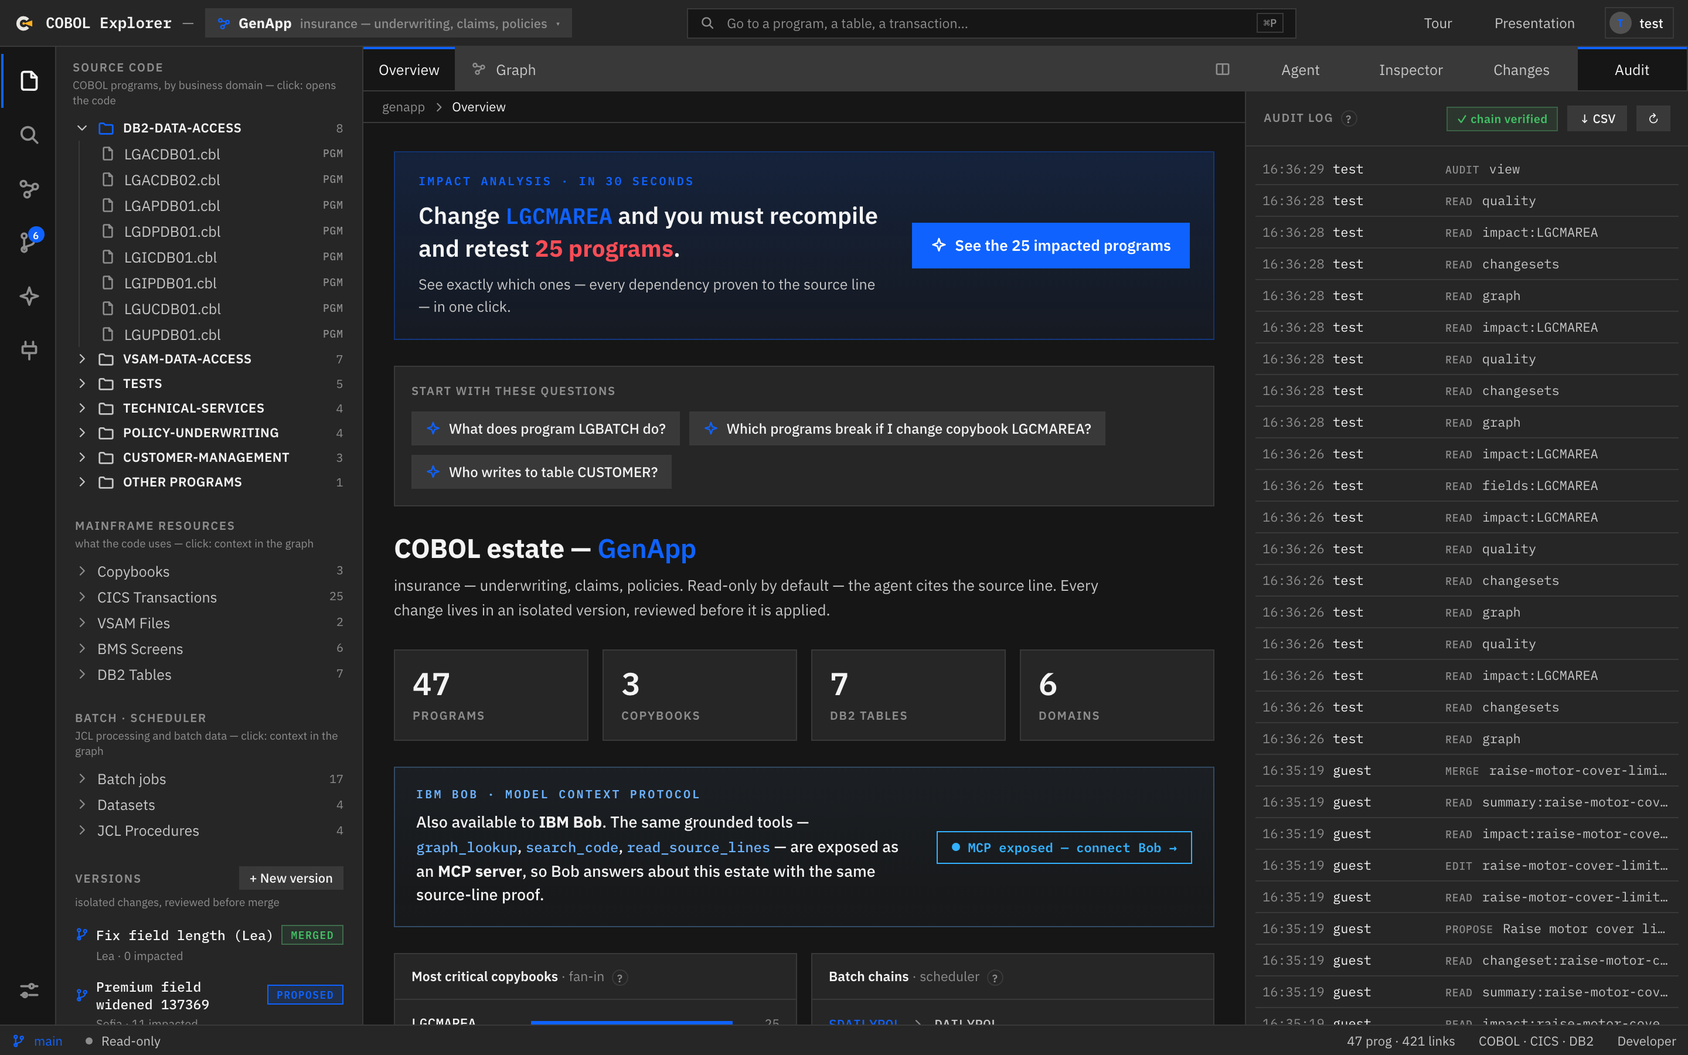
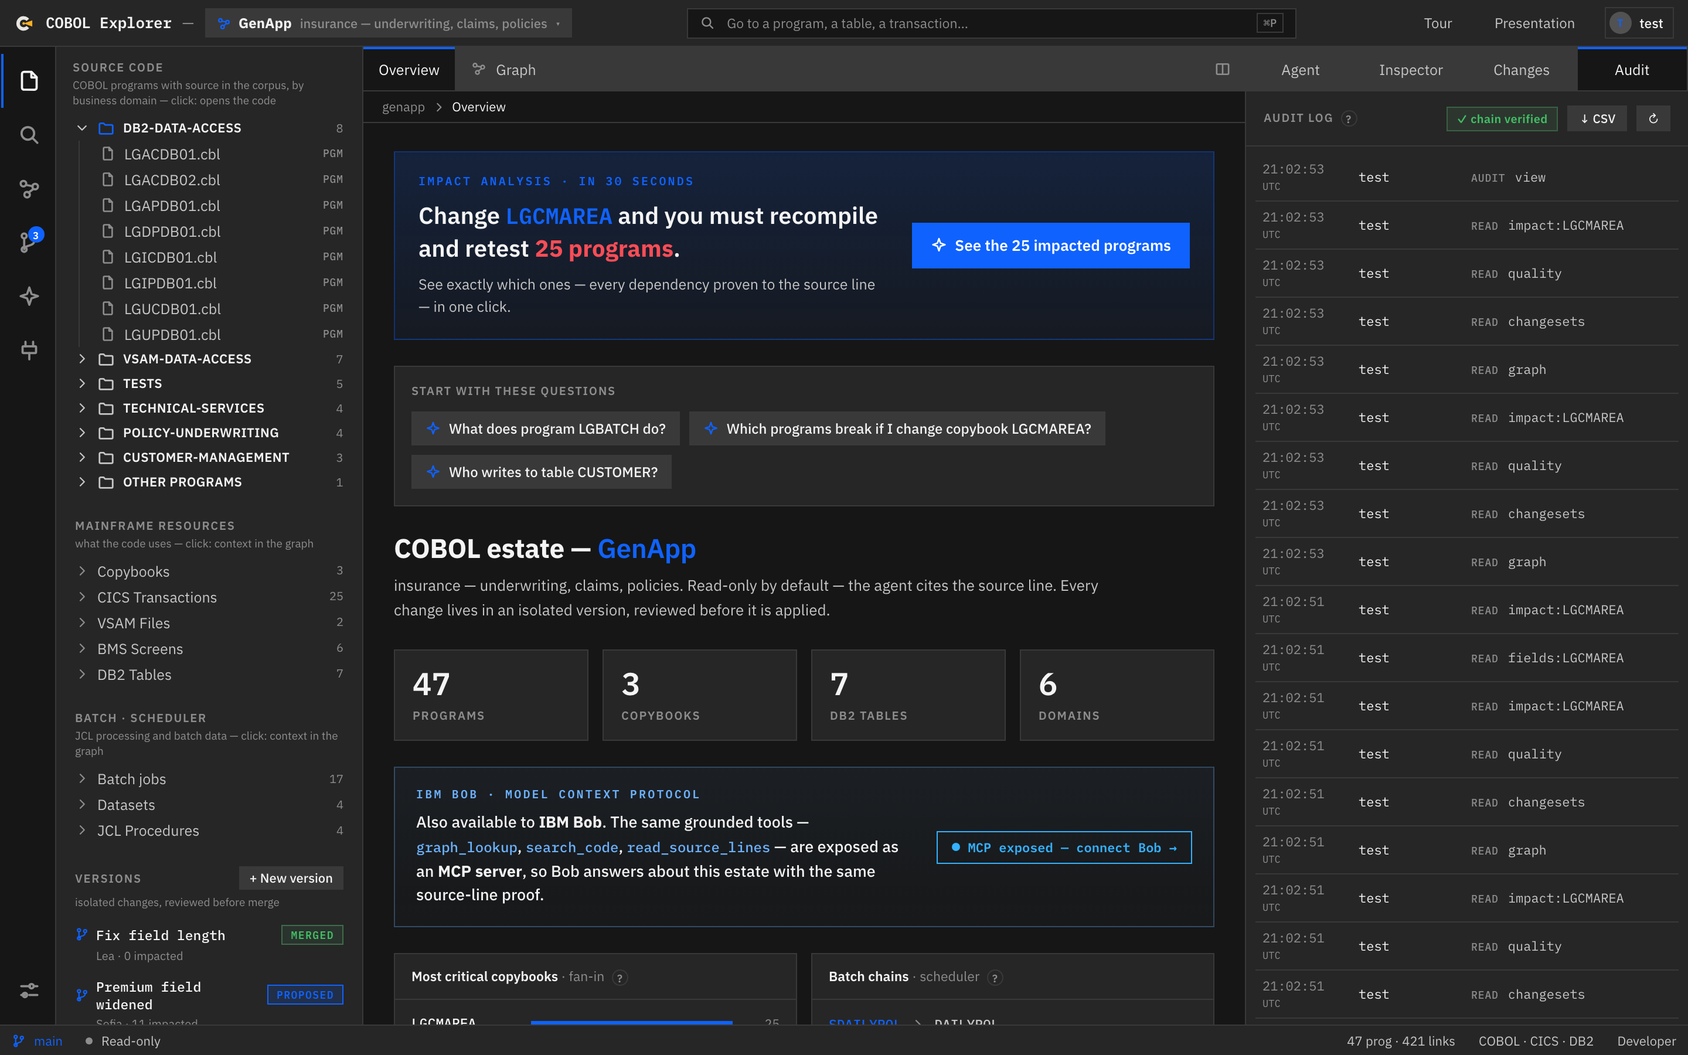
fix: everything four independent audits could find
A cold-eyes juror pass, a technical due-diligence pass, a full QA walkthrough
and a strategy review were run against the submission. Everything confirmed
real is fixed here.

The one that mattered most: the landing page of a product whose whole argument
is verified citations carried a fabricated one — search_code → MAJORER-PRIME
lgipol01.cbl:50, a symbol that exists nowhere in the corpus, pointing at a
COMMAREA declaration. It now shows the real thing: DB2-M-PREMIUM,
lgapdb01.cbl:100, checked against the file.

Second worst: clicking a citation into a file that was not already open landed
on line 1 with no flash — the flash effect depended on the nonce alone, fired
while the editor view was still null, and never re-fired. It now re-runs when
the editor mounts. The gesture the product is named for works from cold.

The audit story is tightened at both ends. The server's own test suite was
appending its merges to the developer's live audit.log.jsonl — and those junk
entries had been photographed onto the public landing page; a session-scoped
conftest now points every test at a temp file (proved: the suite runs, the
live log is byte-identical). The chain key's demo default is now documented,
commented honestly in audit.py, and warned about at startup when real auth is
on. Timestamps in the panel say UTC and carry the date in the tooltip — an
evidence panel two silent hours off the reader's wall clock read as wrong.
[…]

diff --git a/web/src/components/Landing.tsx b/web/src/components/Landing.tsx
@@ -99,7 +99,7 @@ const MCP_ADDS: ReactNode[] = [
 const GOVERNANCE = [
   { tag: "Verified", c: "var(--verified)", t: "Anti-hallucination guardrail", d: "After every answer the server re-verifies each citation against the corpus: does the file exist, is the line in range. An ungrounded answer never passes silently — the panel labels it." },
   { tag: "Audited", c: "var(--graph)", t: "Tamper-evident audit log", d: "Every action, and every refusal, is appended to an HMAC-SHA256 chain. Altering one line breaks the chain, and the panel says so." },
-  { tag: "Scoped", c: "var(--reason)", t: "Role-based access control", d: "Sign-in issues a signed token carrying your role, so a forged header promotes nobody. Proposing, merging and auditing are three different rights. Passwords are never stored — PBKDF2-HMAC-SHA256, 120,000 iterations, per-account salt." },
+  { tag: "Scoped", c: "var(--reason)", t: "Role-based access control", d: "Sign-in issues a signed token carrying your role, so a forged header promotes nobody. Proposing, merging and auditing are three different rights." },
   { tag: "Measured", c: "var(--danger)", t: "Quality, not assumption", d: "A golden question set scored on entity recall, citation grounding and impact coverage, run in CI — so a quality regression breaks the build rather than reaching a demo." },
 ];
 
@@ -109,14 +109,6 @@ const STACK = [
   { l: "Orchestration", t: "BeeAI", d: "The ReAct loop: the agent picks its own tools and logs why, which is what makes the reasoning auditable." },
   { l: "Inference", t: "IBM watsonx.ai", d: "granite-4-h-small in Dallas, the hosted backend serving this deployment. 6.5 s per answer against 30-40 s on CPU." },
 ];
-
-const VERBS = [
-  { v: "Plan", t: "Exhaustive impact", d: "A deterministic traversal, not a plausible sample." },
-  { v: "Coordinate", t: "Team versioning", d: "Isolated branches, affected owners, review, merge gate." },
-  { v: "Decide", t: "Grounded answers", d: "Every fact cited to file:line and re-verified at the source." },
-  { v: "Execute", t: "Governed merge", d: "Propose, measure, approve, merge — on a chained audit trail." },
-];
-
 
 const FIT = [
   { t: "Plan", d: "Exhaustive impact: “this copybook breaks these 11 programs and these 2 batch chains” — a deterministic traversal, never a plausible sample." },
@@ -285,8 +277,8 @@ export default function Landing({
             <p>Browse, ask, analyse without ever altering the estate. Read-only by construction, not by policy.</p>
             <div className="ce-code">
               <span style={{ color: "var(--reason)" }}>think</span> “where is the premium computed?”<br />
-              <span style={{ color: "var(--vector)" }}>search_code</span> → MAJORER-PRIME{" "}
-              <span style={{ color: "var(--interactive)" }}>lgipol01.cbl:50</span><br />
+              <span style={{ color: "var(--vector)" }}>search_code</span> → DB2-M-PREMIUM{" "}
+              <span style={{ color: "var(--interactive)" }}>lgapdb01.cbl:100</span><br />
               <span style={{ color: "var(--verified)" }}>✓ 3 sources verified</span>
             </div>
           </div>
@@ -551,15 +543,6 @@ export default function Landing({
             </div>
           ))}
         </div>
-        <div className="ce-grid4 ce-stack" style={{ marginTop: 34 }}>
-          {VERBS.map((v) => (
-            <div key={v.v}>
-              <div className="ce-stack-l is-accent">{v.v}</div>
-              <div className="ce-stack-t">{v.t}</div>
-              <p className="ce-stack-d">{v.d}</p>
-            </div>
-          ))}
-        </div>
       </Section>
 
       <Section id="fit-section"
@@ -599,7 +582,7 @@ export default function Landing({
 
       <Section id="built-section"
         title="Built with IBM Bob — spec first, not vibes."
-        lead="The July lab teaches spec-driven development with Bob rather than vibe coding: describe the intent, let the agent plan, review the plan, then implement. Reusable skills kept that discipline on every unit of work.">
+        lead="The loop closes here: Bob helped build the tool that now extends Bob over MCP. The July lab teaches spec-driven development rather than vibe coding — describe the intent, let the agent plan, review the plan, then implement — and reusable skills kept that discipline on every unit of work.">
         <div className="ce-grid3 ce-verbs">
           {BUILT.map((f) => (
             <div className="ce-verb" key={f.t}>
@@ -609,13 +592,13 @@ export default function Landing({
           ))}
         </div>
         <p className="ce-fine">
-          The loop closes: Bob helped build the tool that now extends Bob. The same three tools are exposed back to it
-          over MCP, so a developer inside Bob can ask what breaks and get an exhaustive, grounded answer.
+          The same three tools this page describes are exposed back to Bob, so a developer inside it can ask what
+          breaks and get an exhaustive, grounded answer instead of a plausible one.
         </p>
       </Section>
 
       <Section id="access-section" alt
-        title="Days of manual hunting, down to 6.5 seconds — with line-level proof."
+        title="Days of manual hunting, down to 30 seconds — with line-level proof."
         lead="Your role travels inside a signed token: it decides what you may read, propose and merge, and every action is written to the tamper-evident audit trail under your name.">
         <div className="ce-access-actions">
           {inside ? (

diff --git a/web/src/components/ChangesPanel.tsx b/web/src/components/ChangesPanel.tsx
@@ -35,6 +35,7 @@ export default function ChangesPanel({ version, author, onReload, onOpenDiff, on
   // A merged version is done: no sync warnings, no further actions.
   const sync = merged ? null : version.sync;
   const behind = sync ? !sync.up_to_date : false;
+  const empty = !version.edits?.length;
 
   const run = (p: Promise<any>, after?: () => void) => {
     setBusy(true); setError(null);
@@ -173,7 +174,7 @@ export default function ChangesPanel({ version, author, onReload, onOpenDiff, on
           )}
         </div>
       )}
-      {confirmMerge && (
+      {confirmMerge && !empty && (
         <div className="card" style={{ padding: "10px 12px", borderColor: "var(--interactive)", background: "rgba(15, 98, 254, .12)", font: "400 11px/1.5 var(--s)", color: "var(--text-secondary)" }} data-testid="merge-gate">
           <span style={{ color: "var(--interactive)" }}>⚠ Merge-gate</span> — this merge applies the change to the estate and touches <b style={{ color: "var(--text-primary)" }}>{nProg} program{nProg > 1 ? "s" : ""}</b>. Confirm?
         </div>
@@ -184,11 +185,11 @@ export default function ChangesPanel({ version, author, onReload, onOpenDiff, on
       <div style={{ display: merged ? "none" : "flex", gap: 8 }}>
         <button className="btn-pri" style={{ flex: 1, justifyContent: "center", font: "600 12px var(--s)", padding: 8 }} disabled={busy}
           onClick={() => run(csStatus(version.id, "proposed"))}>Propose</button>
-        <button className={confirmMerge ? "btn-pri" : "btn"} style={{ flex: 1, justifyContent: "center", border: confirmMerge ? "none" : undefined, opacity: behind ? 0.5 : 1 }}
-          data-testid="merge-btn" disabled={busy || behind}
-          title={behind ? "Your branch is behind main — import main first" : "Apply this version onto main (git merge)"}
+        <button className={confirmMerge && !empty ? "btn-pri" : "btn"} style={{ flex: 1, justifyContent: "center", border: confirmMerge && !empty ? "none" : undefined, opacity: behind || empty ? 0.5 : 1 }}
+          data-testid="merge-btn" disabled={busy || behind || empty}
+          title={behind ? "Your branch is behind main — import main first" : empty ? "Nothing to merge — this version has no changed file" : "Apply this version onto main (git merge)"}
           onClick={() => (confirmMerge ? run(csStatus(version.id, "merged"), () => setConfirmMerge(false)) : setConfirmMerge(true))}>
-          {behind ? "Merge (import main first)" : confirmMerge ? "Confirm merge" : "Merge"}
+          {behind ? "Merge (import main first)" : empty ? "Nothing to merge" : confirmMerge ? "Confirm merge" : "Merge"}
         </button>
       </div>
 

diff --git a/web/src/App.tsx b/web/src/App.tsx
@@ -123,6 +123,8 @@ export default function App() {
   const [switching, setSwitching] = useState(false);
   const [sessionExpired, setSessionExpired] = useState(false);
   const [tourAt, setTourAt] = useState<number | null>(null);
+  const tourBaseVersion = useRef<string | null>(null);
+  useEffect(() => { if (tourAt !== null) tourBaseVersion.current = activeVersionIdRef.current; }, [tourAt]);
   // The sidebar shows the estate, or how to point your own Bob at it.
   const [side, setSide] = useState<"explorer" | "bob">("explorer");
   // One client route. /presentation shows the same argument page the public sees,
@@ -601,7 +603,9 @@ export default function App() {
           </div>
         ) : (
           <div className="breadcrumb">
-            <span className="crumb">genapp</span><Icon name="chev" size={11} color="var(--text-helper)" />
+            {/* Hardcoded "genapp" survived the second estate: on CardDemo every
+                surface switched except this one word. */}
+            <span className="crumb">{activeSys}</span><Icon name="chev" size={11} color="var(--text-helper)" />
             <span style={{ color: "var(--text-primary)" }}>{t?.title}</span>
           </div>
         )}
@@ -793,6 +797,16 @@ export default function App() {
           selectExample: () => {
             const hit = graph?.nodes.find((n) => n.label === TOUR_EXAMPLE);
             if (hit) setSelectedId(hit.id);
+          },
+          // Hand the workshop back the way the tour found it. Its changes step
+          // auto-enters the first draft version (that is the panel's normal
+          // behaviour), so without this a first-time reader finished the tour
+          // INSIDE somebody's draft, status bar reading "Editing" — right after
+          // being told they never have to wonder where what they type lands.
+          finish: () => {
+            if (!tourBaseVersion.current && activeVersionIdRef.current) switchVersion(null);
+            setRightTab("inspector");
+            focusTab(OVERVIEW_TAB);
           },
         }}
       />

diff --git a/web/src/components/CodeView.tsx b/web/src/components/CodeView.tsx
@@ -3,7 +3,7 @@ import { cobol } from "@codemirror/legacy-modes/mode/cobol";
 import { StateEffect, StateField } from "@codemirror/state";
 import { Decoration, type DecorationSet, EditorView } from "@codemirror/view";
 import CodeMirror, { type ReactCodeMirrorRef } from "@uiw/react-codemirror";
-import { useEffect, useRef } from "react";
+import { useEffect, useRef, useState } from "react";
 
 const cobolExt = StreamLanguage.define(cobol);
 
@@ -39,6 +39,12 @@ export default function CodeView({
   highlight?: { line: number; nonce: number };
 }) {
   const ref = useRef<ReactCodeMirrorRef>(null);
+  // Flips once the editor exists. The flash effect used to depend on the nonce
+  // alone, so when a citation opened a file that was NOT already open, the
+  // effect fired while the view was still null, returned early, and never fired
+  // again — the one gesture the product is named for landed on line 1 with no
+  // flash. Re-running on `ready` covers the fresh-tab case.
+  const [ready, setReady] = useState(false);
 
   useEffect(() => {
     const view = ref.current?.view;
@@ -48,7 +54,7 @@ export default function CodeView({
     view.dispatch({ effects: [flashLine.of(ln), EditorView.scrollIntoView(at, { y: "center" })] });
     const t = setTimeout(() => view.dispatch({ effects: flashLine.of(null) }), 2000);
     return () => clearTimeout(t);
-  }, [highlight?.nonce]);
+  }, [highlight?.nonce, ready]);
 
   return (
     <CodeMirror
@@ -65,6 +71,7 @@ export default function CodeView({
         highlightActiveLine: editable,
         highlightActiveLineGutter: editable,
       }}
+      onCreateEditor={() => setReady(true)}
       height="100%"
       className="cm-theme"
     />

diff --git a/web/src/components/AuditPanel.tsx b/web/src/components/AuditPanel.tsx
@@ -49,7 +49,13 @@ export default function AuditPanel() {
       <div className="sb" style={{ flex: 1, overflow: "auto", padding: "6px 8px" }} data-testid="audit-list">
         {data?.entries?.slice().reverse().map((e, i) => (
           <div key={i} style={{ display: "flex", alignItems: "center", gap: 8, padding: "6px 6px", borderBottom: "1px solid var(--layer-02)", font: "400 11px var(--m)" }}>
-            <span style={{ color: "var(--text-helper)", flex: "none", width: 52 }}>{e.ts.slice(11, 19)}</span>
+            {/* The server records ISO-8601 UTC. Shown bare ("20:44:33") in an
+                evidence panel, two hours off the reader's wall clock, the
+                timestamp read as wrong — label the zone, carry the date in the
+                tooltip. */}
+            <span style={{ color: "var(--text-helper)", flex: "none", width: 74 }} title={e.ts}>
+              {e.ts.slice(11, 19)} <span style={{ fontSize: 8.5 }}>UTC</span>
+            </span>
             <span style={{ color: "var(--text-primary)", flex: "none", width: 88, overflow: "hidden", textOverflow: "ellipsis", whiteSpace: "nowrap" }} title={`${e.actor} · ${e.role}`}>{e.actor}</span>
             <span className="tag" style={{ flex: "none" }}>{e.action}</span>
             <span style={{ color: "var(--text-secondary)", flex: 1, overflow: "hidden", textOverflow: "ellipsis", whiteSpace: "nowrap" }} title={e.target}>{e.target}</span>

diff --git a/web/index.html b/web/index.html
@@ -7,6 +7,16 @@
     <link rel="icon" type="image/svg+xml" href="/favicon.svg" />
     <meta name="theme-color" content="#161616" />
     <meta name="description" content="Map a COBOL estate into a dependency graph and ask it questions in plain language — every answer cited to the exact source line." />
+    <!-- The link travels — a submission form, a Discord, a juror's notes. Without
+         these it unfurls as a bare URL; with them it carries the pitch and a
+         picture of the product. -->
+    <meta property="og:type" content="website" />
+    <meta property="og:site_name" content="COBOL Explorer" />
+    <meta property="og:title" content="COBOL Explorer — ask the estate, get the proof" />
+    <meta property="og:description" content="Grounded agentic RAG over a mainframe-native dependency graph. Every answer cited to the exact source line — and the same tools exposed to IBM Bob over MCP." />
+    <meta property="og:url" content="https://cobol-explorer.fr" />
+    <meta property="og:image" content="https://cobol-explorer.fr/shots/sc-apercu.png" />
+    <meta name="twitter:card" content="summary_large_image" />
     <!-- Fonts are self-hosted (see src/main.tsx): this deployment must render identically
          behind a corporate proxy with no internet, which is where its users actually work. -->
   </head>

diff --git a/docs/presentation.html b/docs/presentation.html
@@ -537,7 +537,7 @@
       <b>HMAC-SHA256</b> chain: altering one line breaks the chain. An Audit tab in the UI shows
       <span class="badge-ok">✓ chain intact</span>.</p></div>
     <div class="card"><h3>👥 Role-based access control</h3>
-      <p>Five roles: <b>dev · architect · risk · compliance · auditor</b>. Proposing ≠ merging ≠ auditing.
+      <p>Six roles — guest included; five can sign in: <b>dev · architect · risk · compliance · auditor</b>. Proposing ≠ merging ≠ auditing.
       Sign-in issues a <b>signed token</b> carrying the role, so a forged header promotes nobody; an
       <span class="mono">enforce</span> mode delegates identity to a corporate SSO proxy (OIDC/SAML) instead.</p></div>
     <div class="card"><h3>📊 Quality measured, not assumed</h3>
@@ -666,7 +666,7 @@
       <li><b>Real sign-in</b> (signed token) or <b>enforce</b> mode behind an SSO proxy</li>
       <li>Source access confined to the corpus (path-traversal proof) + strict CORS</li>
       <li>Copybook resolver: SYSLIB, COPY REPLACING, nested</li>
-      <li>151 backend tests · 49 Playwright e2e · multi-agent adversarial audits</li>
+      <li>151 backend tests · 49 Playwright e2e · a golden Q/A gate in CI</li>
     </ul></div>
   </div>
   <div class="foot"><span>COBOL Explorer</span><span>16 / 20</span></div>

diff --git a/web/src/components/Tour.tsx b/web/src/components/Tour.tsx
@@ -24,6 +24,8 @@ export interface TourHooks {
   openOverview: () => void;
   /** Select that entity, so the inspector is full rather than showing its placeholder. */
   selectExample: () => void;
+  /** Restore the pre-tour state: leave any version the tour entered, back to the overview. */
+  finish: () => void;
 }
 
 /** `before` runs, then the DOM settles, then the step is shown. */
@@ -169,7 +171,7 @@ export default function Tour({ run, hooks, onClose }: { run: boolean; hooks: Tou
       overlayColor: "#000",
       overlayOpacity: 0.72,
       allowClose: true,
-      onDestroyed: () => { localStorage.setItem(TOUR_SEEN, "1"); hooks.openSide("explorer"); onClose(); },
+      onDestroyed: () => { localStorage.setItem(TOUR_SEEN, "1"); hooks.openSide("explorer"); hooks.finish(); onClose(); },
       steps: steps.map<DriveStep>((s) => ({
         element: s.el,
         popover: { title: s.title, description: s.text, side: s.side ?? "bottom", align: "start" },

diff --git a/web/src/components/Navigator.tsx b/web/src/components/Navigator.tsx
@@ -52,7 +52,11 @@ export default function Navigator({
       {/* ── Source code, one folder per business domain ─────────────────── */}
       <div className="sidehead" style={{ flexDirection: "column", alignItems: "flex-start", gap: 2 }}>
         <span className="klabel">Source code</span>
-        <span className="sidehint">COBOL programs, by business domain — click: opens the code</span>
+        {/* "with source in the corpus" is doing real work: the graph also knows
+            programs that are only ever CALLed (18 of CardDemo's 62), so the
+            tree count and the estate statistic legitimately differ — unstated,
+            that difference read as a bug. */}
+        <span className="sidehint">COBOL programs with source in the corpus, by business domain — click: opens the code</span>
       </div>
 
       <div style={{ padding: "0 8px 10px" }}>

diff --git a/server/agent/agent.py b/server/agent/agent.py
@@ -221,7 +221,9 @@ def _deterministic_fallback(question: str, gt: GraphTools, trace: Trace, exc: Ex
 
     from agent.responder import answer_copybook_impact
 
-    note = f"\n\n_(deterministic answer — the LLM agent is unavailable: {type(exc).__name__})_"
+    import logging
+    logging.getLogger("uvicorn.error").info("agent fallback: %s", type(exc).__name__)
+    note = "\n\n> Deterministic answer — no language model is configured, so this was derived from the graph alone."
     # Allow underscores so table names like CUSTOMER_SECURE resolve as one token.
     for tok in re.findall(r"\b[A-Za-z][A-Za-z0-9_]{2,}\b", question):
         nid = gt.resolve(tok.upper())
@@ -236,4 +238,4 @@ def _deterministic_fallback(question: str, gt: GraphTools, trace: Trace, exc: Ex
             trace.record("graph_lookup", {"op": "summary", "node": tok.upper()},
                          _summ(prof), sources=[prof.get("node", nid)])
             return {"answer": _format_profile(prof) + note, "trace": trace}
-    return {"answer": f"[The LLM agent is unavailable ({type(exc).__name__}). Name a program, a copybook or a table for a structural analysis that needs no LLM.]", "trace": trace}
+    return {"answer": "No language model is configured, and this question needs one. Name a program, a copybook or a table and the graph alone can answer — impact, callers, profile — with citations.", "trace": trace}

diff --git a/server/security/audit.py b/server/security/audit.py
@@ -15,7 +15,19 @@ import json
 import os
 import threading
 
+# The chain key. It must survive restarts — old entries are verified against it —
+# so unlike the JWT secret it cannot default to a random per-process value. The
+# demo default is repo-visible, which means: with it, someone who can WRITE the
+# log file can also re-link the chain. Tamper evidence is real against everyone
+# else; against the key holder it is exactly as strong as the key is secret.
+# Deployments set COBOL_EXPLORER_AUDIT_SECRET (documented in the README), and the
+# server says so out loud below instead of letting the default pass silently.
 _SECRET = os.environ.get("COBOL_EXPLORER_AUDIT_SECRET", "dev-audit-secret-change-in-prod").encode()
+if _SECRET == b"dev-audit-secret-change-in-prod" and os.environ.get("COBOL_EXPLORER_AUTH") in ("jwt", "enforce"):
+    import logging
+    logging.getLogger("uvicorn.error").warning(
+        "audit: running with the demo chain key — set COBOL_EXPLORER_AUDIT_SECRET "
+        "or the tamper evidence is only as secret as this repository")
 
 
 def _mac(prev: str, payload: str) -> str:

diff --git a/server/tests/conftest.py b/server/tests/conftest.py
@@ -1,0 +1,14 @@
+"""Shared test bootstrap.
+
+The audit log path is read from COBOL_EXPLORER_AUDIT when api.app is imported,
+default "audit.log.jsonl" in the working directory — the developer's live log.
+Two test modules already redirected it per-test, but any test that imports the
+app without doing so appended its merges and refusals to the real file, and
+those junk entries ended up photographed on the public landing page. Session-
+scoped here, before anything imports the app, so no test can forget.
+"""
+import os
+import tempfile
+
+_dir = tempfile.mkdtemp(prefix="cobol-explorer-test-audit-")
+os.environ.setdefault("COBOL_EXPLORER_AUDIT", os.path.join(_dir, "audit.jsonl"))
